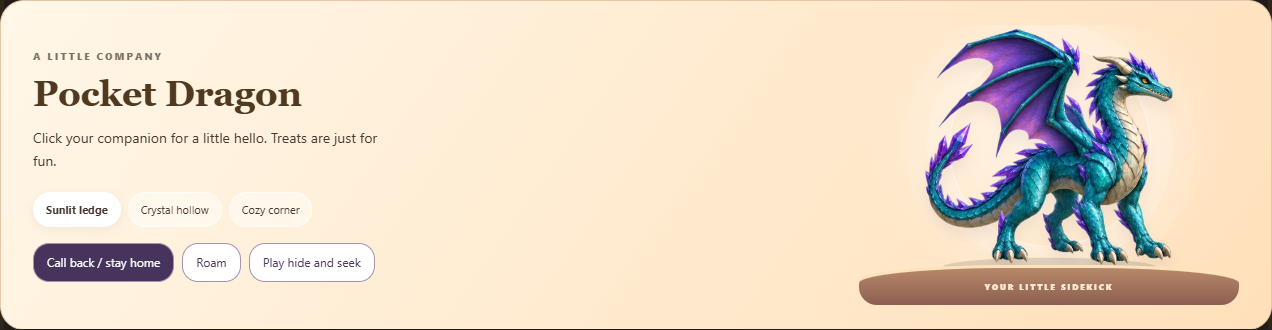
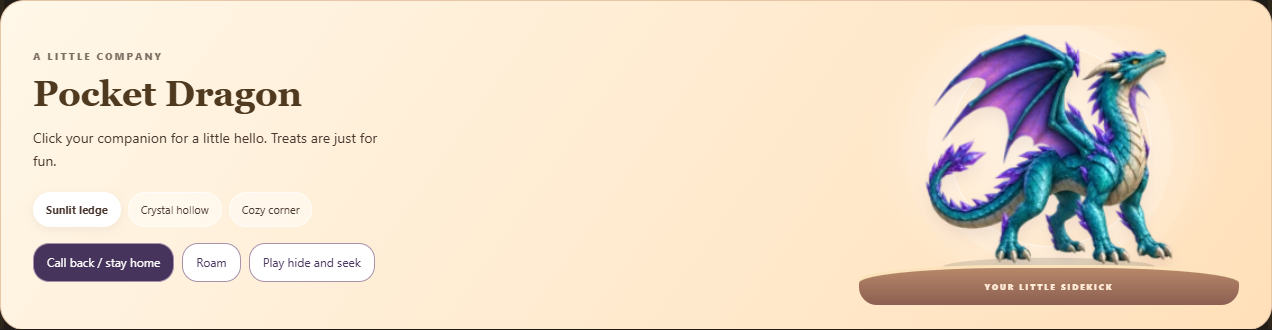
Fix validation bugs: prevent negative transfers/prices and self-transfers

Changed region(s): [[0.7052, 0.0909, 0.9198, 0.8182]]

diff --git a/public/ruby-shop.css b/public/ruby-shop.css
@@ -100,9 +100,10 @@ body[data-ruby-profile="royal"] #currentUsername {padding:12px;border:3px double
 /* Full-animal film strips keep all joints connected throughout motion. */
 .companion-animated .companion-frame{width:245px!important;height:245px!important;overflow:hidden!important}
 .companion-animated .companion-body{transform-box:view-box;transform-origin:150px 216px;animation:companion-breathe 5s ease-in-out infinite}
-.companion-film{animation:companion-idle-frames 3s step-end infinite;pointer-events:none}
+.companion-film{animation:companion-idle-frames 3s step-end infinite;pointer-events:none;will-change:transform}
 .companion-animated[data-species=snail] .companion-film{animation-duration:4.2s}
-@keyframes companion-idle-frames{0%,100%{transform:translateX(0)}16.6667%{transform:translateX(-512px)}33.3333%{transform:translateX(-1024px)}50%{transform:translateX(-1536px)}66.6667%{transform:translateX(-2048px)}83.3333%{transform:translateX(-2560px)}}
+/* Precomputed optical-flow poses advance at about 32 fps, including the loop seam. */
+@keyframes companion-idle-frames{0.000000%{transform:translate(0px,0px)}1.041667%{transform:translate(-256px,0px)}2.083333%{transform:translate(-512px,0px)}3.125000%{transform:translate(-768px,0px)}4.166667%{transform:translate(-1024px,0px)}5.208333%{transform:translate(-1280px,0px)}6.250000%{transform:translate(-1536px,0px)}7.291667%{transform:translate(-1792px,0px)}8.333333%{transform:translate(0px,-256px)}9.375000%{transform:translate(-256px,-256px)}10.416667%{transform:translate(-512px,-256px)}11.458333%{transform:translate(-768px,-256px)}12.500000%{transform:translate(-1024px,-256px)}13.541667%{transform:translate(-1280px,-256px)}14.583333%{transform:translate(-1536px,-256px)}15.625000%{transform:translate(-1792px,-256px)}16.666667%{transform:translate(0px,-512px)}17.708333%{transform:translate(-256px,-512px)}18.750000%{transform:translate(-512px,-512px)}19.791667%{transform:translate(-768px,-512px)}20.833333%{transform:translate(-1024px,-512px)}21.875000%{transform:translate(-1280px,-512px)}22.916667%{transform:translate(-1536px,-512px)}23.958333%{transform:translate(-1792px,-512px)}25.000000%{transform:translate(0px,-768px)}26.041667%{transform:translate(-256px,-768px)}27.083333%{transform:translate(-512px,-768px)}28.125000%{transform:translate(-768px,-768px)}29.166667%{transform:translate(-1024px,-768px)}30.208333%{transform:translate(-1280px,-768px)}31.250000%{transform:translate(-1536px,-768px)}32.291667%{transform:translate(-1792px,-768px)}33.333333%{transform:translate(0px,-1024px)}34.375000%{transform:translate(-256px,-1024px)}35.416667%{transform:translate(-512px,-1024px)}36.458333%{transform:translate(-768px,-1024px)}37.500000%{transform:translate(-1024px,-1024px)}38.541667%{transform:translate(-1280px,-1024px)}39.583333%{transform:translate(-1536px,-1024px)}40.625000%{transform:translate(-1792px,-1024px)}41.666667%{transform:translate(0px,-1280px)}42.708333%{transform:translate(-256px,-1280px)}43.750000%{transform:translate(-512px,-1280px)}44.791667%{transform:translate(-768px,-1280px)}45.833333%{transform:translate(-1024px,-1280px)}46.875000%{transform:translate(-1280px,-1280px)}47.916667%{transform:translate(-1536px,-1280px)}48.958333%{transform:translate(-1792px,-1280px)}50.000000%{transform:translate(0px,-1536px)}51.041667%{transform:translate(-256px,-1536px)}52.083333%{transform:translate(-512px,-1536px)}53.125000%{transform:translate(-768px,-1536px)}54.166667%{transform:translate(-1024px,-1536px)}55.208333%{transform:translate(-1280px,-1536px)}56.250000%{transform:translate(-1536px,-1536px)}57.291667%{transform:translate(-1792px,-1536px)}58.333333%{transform:translate(0px,-1792px)}59.375000%{transform:translate(-256px,-1792px)}60.416667%{transform:translate(-512px,-1792px)}61.458333%{transform:translate(-768px,-1792px)}62.500000%{transform:translate(-1024px,-1792px)}63.541667%{transform:translate(-1280px,-1792px)}64.583333%{transform:translate(-1536px,-1792px)}65.625000%{transform:translate(-1792px,-1792px)}66.666667%{transform:translate(0px,-2048px)}67.708333%{transform:translate(-256px,-2048px)}68.750000%{transform:translate(-512px,-2048px)}69.791667%{transform:translate(-768px,-2048px)}70.833333%{transform:translate(-1024px,-2048px)}71.875000%{transform:translate(-1280px,-2048px)}72.916667%{transform:translate(-1536px,-2048px)}73.958333%{transform:translate(-1792px,-2048px)}75.000000%{transform:translate(0px,-2304px)}76.041667%{transform:translate(-256px,-2304px)}77.083333%{transform:translate(-512px,-2304px)}78.125000%{transform:translate(-768px,-2304px)}79.166667%{transform:translate(-1024px,-2304px)}80.208333%{transform:translate(-1280px,-2304px)}81.250000%{transform:translate(-1536px,-2304px)}82.291667%{transform:translate(-1792px,-2304px)}83.333333%{transform:translate(0px,-2560px)}84.375000%{transform:translate(-256px,-2560px)}85.416667%{transform:translate(-512px,-2560px)}86.458333%{transform:translate(-768px,-2560px)}87.500000%{transform:translate(-1024px,-2560px)}88.541667%{transform:translate(-1280px,-2560px)}89.583333%{transform:translate(-1536px,-2560px)}90.625000%{transform:translate(-1792px,-2560px)}91.666667%{transform:translate(0px,-2816px)}92.708333%{transform:translate(-256px,-2816px)}93.750000%{transform:translate(-512px,-2816px)}94.791667%{transform:translate(-768px,-2816px)}95.833333%{transform:translate(-1024px,-2816px)}96.875000%{transform:translate(-1280px,-2816px)}97.916667%{transform:translate(-1536px,-2816px)}98.958333%{transform:translate(-1792px,-2816px)}100%{transform:translate(0,0)}}
 .pet-play-art[data-mood=pet] .companion-film,.pet-play-art[data-mood=dance] .companion-film,.companion-stage[data-mood=snack] .companion-film{animation-duration:1.5s}
 .pet-play-art[data-mood=nap] .companion-film,.care-animal[data-activity=rest] .companion-film{animation-play-state:paused}
 .care-animal[data-activity=walk] .companion-film,.care-animal[data-activity=play] .companion-film{animation-duration:1.2s}

diff --git a/public/companion-preview.html b/public/companion-preview.html
@@ -3,13 +3,13 @@
 <head>
 <meta charset="utf-8"><meta name="viewport" content="width=device-width,initial-scale=1">
 <title>Animal artwork preview</title>
-<link rel="stylesheet" href="ruby-shop.css?v=20261012-animals6">
+<link rel="stylesheet" href="ruby-shop.css?v=20261012-animals7-smooth">
 <style>
 *{box-sizing:border-box}body{margin:0;background:#162b29;color:#f5ecd5;font:16px system-ui,sans-serif;padding:48px 28px;min-height:100vh}main{max-width:1240px;margin:auto}h1{font:clamp(32px,4vw,52px) Georgia,serif;margin:12px 0}p{color:#b9ccc2;line-height:1.6}.eyebrow{font-size:11px;letter-spacing:.24em;color:#d8b980}.gallery{display:grid;grid-template-columns:repeat(3,minmax(0,1fr));gap:22px;margin:32px 0}.animal-card{border:1px solid #577366;border-radius:22px;background:linear-gradient(145deg,#334a3b,#1b352d);padding:22px;overflow:hidden}.animal-art{height:310px;background:radial-gradient(ellipse at 50% 70%,#b2bb8740,transparent 65%);border-radius:18px}.animal-art svg.companion-illustration{width:100%;height:100%}.animal-card h2{font:26px Georgia,serif;margin:16px 0 8px}.animal-card p{font-size:13px;margin:0;min-height:42px}.controls{display:flex;gap:10px;flex-wrap:wrap;margin-top:20px}button{font:inherit;font-size:13px;border:1px solid #8ba68d;background:#e7dcc0;color:#253c32;border-radius:20px;padding:10px 16px;cursor:pointer}button:hover{background:#fff2d1}button:focus-visible{outline:3px solid #ffe09b;outline-offset:3px}.paused .companion-illustration *{animation-play-state:paused!important}.moving .companion-film{animation-duration:1.2s}.moving .care-paw-left{animation:preview-step .6s ease-in-out infinite}.moving .care-paw-right{animation:preview-step .6s ease-in-out -.3s infinite}.moving .companion-body{animation:preview-body .6s ease-in-out infinite}.moving [data-species=snail] .companion-body{animation:animal-breathe 1.4s ease-in-out infinite}@keyframes preview-step{50%{transform:translateY(-8px) rotate(5deg)}}@keyframes preview-body{50%{transform:translateY(-2px)}}@media(max-width:850px){.gallery{grid-template-columns:1fr}.animal-art{height:330px}body{padding:28px 16px}.animal-card p{min-height:0}}
 </style>
 </head>
 <body><main><div class="eyebrow">COMPANION ARTWORK · LIVE PREVIEW</div><h1>A little closer to the wild.</h1><p>Natural proportions, detailed materials, and independently animated parts.</p><div class="gallery" id="gallery"></div></main>
-<script src="companions.js?v=20261012-animals6"></script>
+<script src="companions.js?v=20261012-animals7-smooth"></script>
 <script>
 const animals=[['fox','Red fox','A complete fox with natural head, ear, and tail motion.'],['dragon','Crystal dragon','A complete quadruped dragon with connected wings and tail.'],['snail','Crystal snail','A continuous muscular foot with a shell and moving feelers.']];
 for(const [kind,name,description] of animals){const card=document.createElement('article');card.className='animal-card';card.innerHTML=`<div class="animal-art pet-play-art">${companionArt('pet:'+kind)}</div><h2>${name}</h2><p>${description}</p><div class="controls"><button data-action="motion" aria-pressed="false">Pause motion</button><button data-action="walk" aria-pressed="false">Animate</button><button data-action="pet">Head scratch</button></div>`;const art=card.querySelector('.animal-art');let timer;card.addEventListener('click',event=>{const button=event.target.closest('button');if(!button)return;if(button.dataset.action==='motion'){const paused=card.classList.toggle('paused');button.textContent=paused?'Resume motion':'Pause motion';button.setAttribute('aria-pressed',paused);}if(button.dataset.action==='walk'){const moving=card.classList.toggle('moving');button.textContent=moving?'Idle stance':'Animate';button.setAttribute('aria-pressed',moving);}if(button.dataset.action==='pet'){clearTimeout(timer);art.dataset.mood='';void art.offsetWidth;art.dataset.mood='pet';timer=setTimeout(()=>delete art.dataset.mood,2800);}});document.getElementById('gallery').append(card);}

diff --git a/public/index.html b/public/index.html
@@ -8,9 +8,9 @@
   <link rel="preload" as="image" media="(orientation: portrait)" href="assets/village/loading-wallpaper-mobile.jpg" fetchpriority="high">
   <link rel="stylesheet" href="style.css">
   <link rel="stylesheet" href="studio.css">
-  <link rel="stylesheet" href="ruby-shop.css?v=20261012-animals6">
+  <link rel="stylesheet" href="ruby-shop.css?v=20261012-animals7-smooth">
 <link rel="stylesheet" href="pack-cinema.css">
-<link rel="stylesheet" href="village.css?v=20261012-animals6">
+<link rel="stylesheet" href="village.css?v=20261012-animals7-smooth">
 <link rel="stylesheet" href="village-interiors.css">
 <link rel="stylesheet" href="town-hall.css">
 <link rel="stylesheet" href="island-minigames.css">
@@ -572,15 +572,15 @@
   <p id="dyeModeStatus" role="status" aria-live="polite"></p>
 </div>
 <script src="dye-mode.js"></script>
-<script src="practice-engine.js?v=20261012-animals6"></script>
-<script src="brawl-turns.js?v=20261012-animals6"></script>
+<script src="practice-engine.js?v=20261012-animals7-smooth"></script>
+<script src="brawl-turns.js?v=20261012-animals7-smooth"></script>
 <script src="battle-effects.js"></script>
-<script src="practice-battle.js?v=20261012-animals6"></script>
+<script src="practice-battle.js?v=20261012-animals7-smooth"></script>
 <script src="studio.js"></script>
-<script src="companions.js?v=20261012-animals6"></script>
+<script src="companions.js?v=20261012-animals7-smooth"></script>
 <script src="companion-explorer.js"></script>
 <script src="pet-interactions.js"></script>
-<script src="ruby-shop.js?v=20261012-animals6"></script>
+<script src="ruby-shop.js?v=20261012-animals7-smooth"></script>
 <script src="village-hit-shapes.js"></script>
 <script src="village-art.js"></script>
 <script src="hall-world.js"></script>
@@ -598,6 +598,6 @@
 <script src="market-street.js"></script>
 <script src="island-minigames.js"></script>
 <script src="player-profile.js"></script>
-<script src="village.js?v=20261012-animals6"></script>
+<script src="village.js?v=20261012-animals7-smooth"></script>
 </body>
 </html>

diff --git a/public/companions.js b/public/companions.js
@@ -1,8 +1,8 @@
-/* Coherent full-animal frames: joint motion is drawn into each frame. */
+/* 96 motion-compensated poses per animal; six original poses define the loop. */
 (() => {
  const kinds=new Set(['fox','snail','dragon']);
  window.companionArt=id=>{
   const kind=String(id).split(':')[1];if(!kinds.has(kind))return '';
-  return `<svg class="companion-illustration companion-animated" data-species="${kind}" data-rig="6" viewBox="0 0 300 245" aria-hidden="true" focusable="false"><ellipse cx="150" cy="216" rx="91" ry="8" fill="#182722" opacity=".14"/><g class="companion-character"><g class="companion-body"><svg class="companion-frame" x="27.5" y="0" width="245" height="245" viewBox="0 0 512 512" overflow="hidden"><image class="companion-film" href="assets/companions/${kind}-idle-v6.webp" x="0" y="0" width="3072" height="512"/></svg></g></g><g class="companion-hearts" fill="#ff698d"><path d="M96 53c-19-17-27 5 0 21 28-19 18-37 0-21Z"/><path d="M218 25c-14-12-20 4 0 17 20-14 13-27 0-17Z"/></g></svg>`;
+  return `<svg class="companion-illustration companion-animated" data-species="${kind}" data-rig="7" viewBox="0 0 300 245" aria-hidden="true" focusable="false"><ellipse cx="150" cy="216" rx="91" ry="8" fill="#182722" opacity=".14"/><g class="companion-character"><g class="companion-body"><svg class="companion-frame" x="27.5" y="0" width="245" height="245" viewBox="0 0 256 256" overflow="hidden"><image class="companion-film" href="assets/companions/${kind}-smooth-v7.webp" x="0" y="0" width="2048" height="3072"/></svg></g></g><g class="companion-hearts" fill="#ff698d"><path d="M96 53c-19-17-27 5 0 21 28-19 18-37 0-21Z"/><path d="M218 25c-14-12-20 4 0 17 20-14 13-27 0-17Z"/></g></svg>`;
  };
 })();

diff --git a/public/practice-sw.js b/public/practice-sw.js
@@ -1,5 +1,5 @@
 /* Same URL/scope as the old practice worker, so existing installations migrate. */
-const CACHE='island-public-v6';
+const CACHE='island-public-v7';
 const root=new URL(self.registration.scope);
 const offline=new URL('offline.html',root).href;
 self.addEventListener('install',event=>event.waitUntil(caches.open(CACHE).then(cache=>cache.addAll([offline,new URL('assets/pwa/island-icon-v3-192.png',root).href]))));

diff --git a/scripts/generate-companion-tweens.py b/scripts/generate-companion-tweens.py
@@ -1,0 +1,76 @@
+"""Build the 96-pose animal atlases used by companions.js.
+
+Requires opencv-python-headless, numpy and Pillow.
+Run: python scripts/generate-companion-tweens.py
+The six original poses are retained, including a tween back to the first pose.
+"""
+from pathlib import Path
+import cv2
+import numpy as np
+from PIL import Image
+
+ROOT=Path(__file__).resolve().parent.parent
+SIZE=256
+STEPS=16
+COLS=8
+ROWS=12
+
+def remap(values,mapping):
+    return cv2.remap(values,mapping[...,0],mapping[...,1],cv2.INTER_LINEAR,borderMode=cv2.BORDER_CONSTANT,borderValue=0)
+
+def premultiply(frame):
+    values=frame.astype(np.float32)/255
+    values[...,:3]*=values[...,3:4]
+    return values
+
+def unpack(values):
+    alpha=np.clip(values[...,3:4],0,1)
+    rgb=values[...,:3]/np.maximum(alpha,1/255)
+    out=np.concatenate((np.clip(rgb,0,1),alpha),axis=2)
+    return np.round(out*255).astype(np.uint8)
+
+def gray(frame):
+    # Include silhouette information, especially for black feet on transparency.
+    luma=cv2.cvtColor(frame[...,:3],cv2.COLOR_RGB2GRAY)
+    return np.round(luma*.65+frame[...,3]*.35).astype(np.uint8)
+
+for kind in ['fox','snail','dragon']:
+    sheet=np.array(Image.open(ROOT/f'public/assets/companions/{kind}-idle-v6.webp').convert('RGBA'))
+    frames=[cv2.resize(sheet[:,i*512:(i+1)*512],(SIZE,SIZE),interpolation=cv2.INTER_AREA) for i in range(6)]
+    h,w=frames[0].shape[:2]
+    xx,yy=np.meshgrid(np.arange(w,dtype=np.float32),np.arange(h,dtype=np.float32))
+    grid=np.stack((xx,yy),axis=2)
+    atlas=Image.new('RGBA',(SIZE*COLS,SIZE*ROWS))
+    flow=cv2.DISOpticalFlow_create(cv2.DISOPTICAL_FLOW_PRESET_MEDIUM)
+    flow.setFinestScale(0)
+    flow.setVariationalRefinementIterations(20)
+    for index in range(6):
+        a,b=frames[index],frames[(index+1)%6]
+        forward=flow.calc(gray(a),gray(b),None)
+        backward=flow.calc(gray(b),gray(a),None)
+        # Forward/backward consistency reduces doubling in occluded regions.
+        error_a=np.linalg.norm(forward+remap(backward,grid+forward),axis=2)
+        error_b=np.linalg.norm(backward+remap(forward,grid+backward),axis=2)
+        confidence_a=np.maximum(.05,np.exp(-error_a/6)).astype(np.float32)
+        confidence_b=np.maximum(.05,np.exp(-error_b/6)).astype(np.float32)
+        pa,pb=premultiply(a),premultiply(b)
+        for step in range(STEPS):
+            t=step/STEPS
+            if not step:
+                result=a
+            else:
+                # Invert motion by iteration rather than sliding a whole image.
+                ma,mb=grid.copy(),grid.copy()
+                for _ in range(4):
+                    ma=grid-t*remap(forward,ma)
+                    mb=grid-(1-t)*remap(backward,mb)
+                wa=(1-t)*remap(confidence_a,ma)[...,None]
+                wb=t*remap(confidence_b,mb)[...,None]
+                values=(wa*remap(pa,ma)+wb*remap(pb,mb))/np.maximum(wa+wb,1e-6)
+                result=unpack(values)
+            frame=Image.fromarray(result)
+            n=index*STEPS+step
+            atlas.paste(frame,((n%COLS)*SIZE,(n//COLS)*SIZE))
+    target=ROOT/f'public/assets/companions/{kind}-smooth-v7.webp'
+    atlas.save(target,quality=94,method=6)
+    print(kind,'96 frames',atlas.size,target.stat().st_size,'bytes',flush=True)
